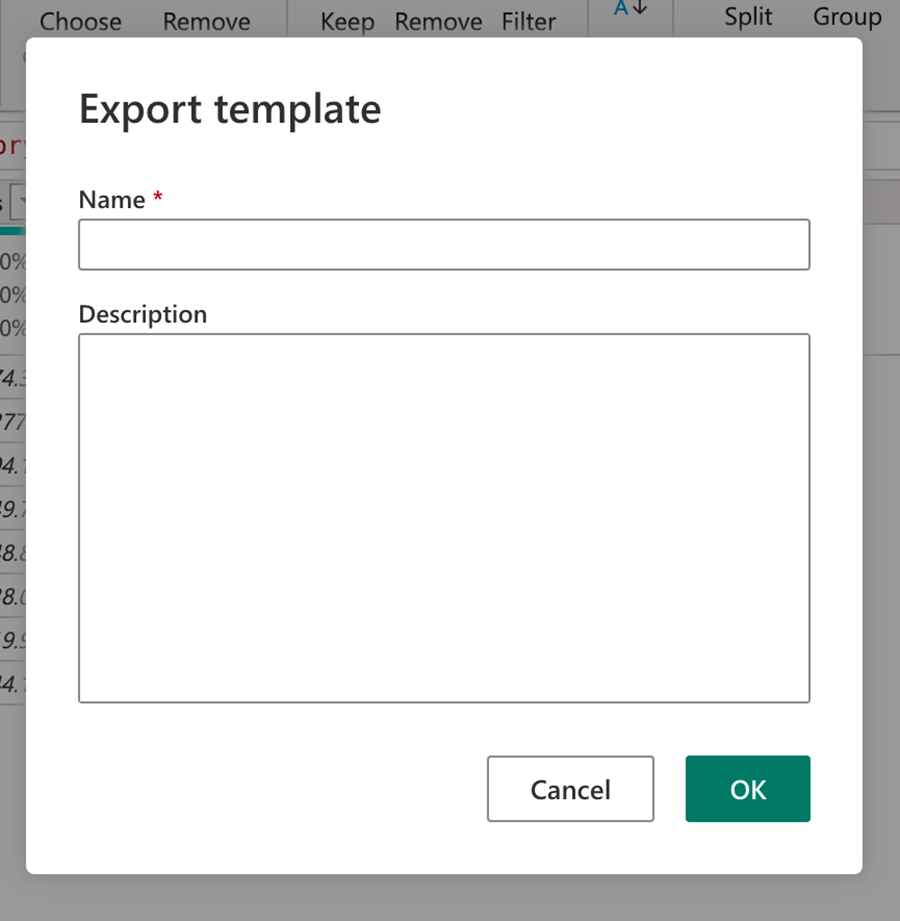
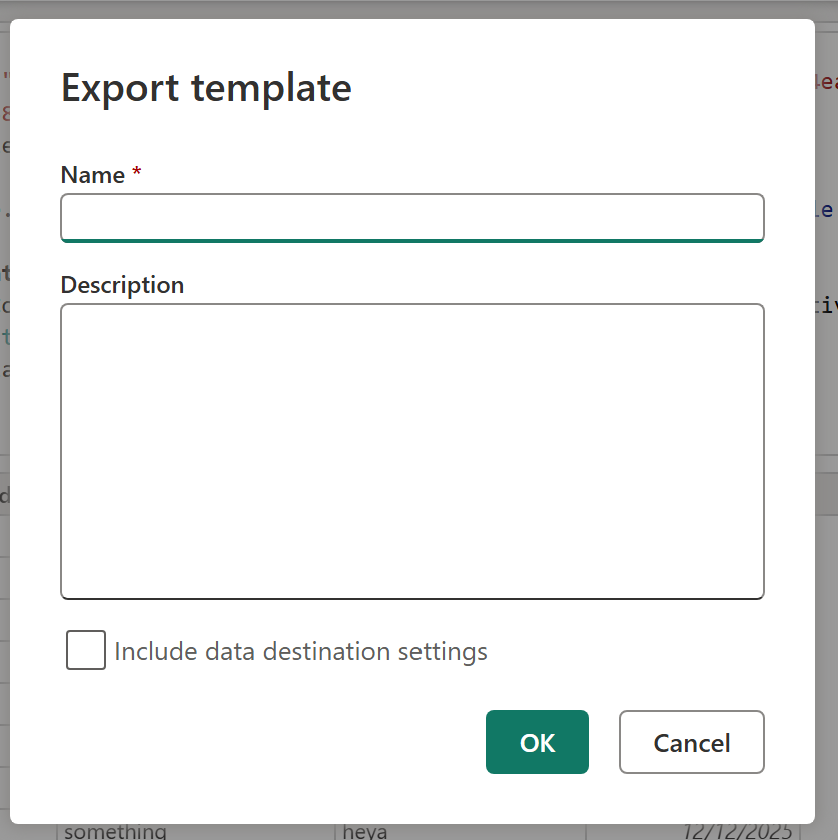
Update Power Query template article

Changed region(s): [[0.0, 0.0, 1.0, 1.0], [0.0621, 0.0929, 0.4344, 0.1548]]

diff --git a/powerquery-docs/power-query-template.md b/powerquery-docs/power-query-template.md
@@ -1,52 +1,54 @@
 ---
-title: Power Query template (preview)
+title: Power Query template
 description: Learn how to import and export a Power Query template that helps you move entire Power Query projects across environments that support the template functionality.
 author: ptyx507x
 
 ms.topic: overview
-ms.date: 6/19/2023
+ms.date: 4/13/2026
 ms.author: miescobar
 ---
 
-# Power Query template (preview)
+# Power Query template
 
-A Power Query template is a file that encompasses the Power Query script and its associated metadata for a single Power Query project. 
+A Power Query template is a file that includes the Power Query script and its related metadata for a single Power Query project.
 
-It's meant to be used as a simple means to package your entire Power Query project in a single file. You can then share the file or import it to other Power Query integrations.
+You can use it to package your entire Power Query project into a single file so you can share it or import it into other Power Query integrations.
 
 >[!NOTE]
->A Power Query project can be defined as a single instance of the Power Query editor. This instance could contain any number of parameters, queries, and specific settings, such as the locale that should be used to interpret data types.
-
+>A Power Query project is a single instance of the Power Query editor that can have any number of parameters, queries, and settings like the locale used to interpret data types.
 >[!IMPORTANT]
->Concepts that are outside of the Power Query script or its metadata are outside of the scope of what to find in a Power Query template. Some examples are dataflow related concepts such as scheduled refresh definition, refresh history, dataflow IDs, connections referenced, and other concepts that aren't stored in the Power Query script or the metadata of a Power Query project.
+>Items outside the mashup document or its metadata aren't part of a Power Query template. Examples include dataflow-related items like scheduled refresh definitions, refresh history, dataflow IDs, referenced connections, and other items that aren't stored in the mashup document or its metadata.
 
 ## Export a template
 
 >[!NOTE]
->The following guide applies to all Power Query Online hosts.
+>This guide applies to all Power Query Online hosts.
 >
->For Power Query in Excel for Windows, follow the guide in [exporting queries in Excel to a Power Query template](new-dataflow-from-template.md#exporting-queries-in-excel-to-a-power-query-template).
+>For Power Query in Excel for Windows, see [Export queries in Excel to a Power Query template](new-dataflow-from-template.md#exporting-queries-in-excel-to-a-power-query-template).
 
-You can find the **Export template** button inside of the **Home** tab of the Power Query ribbon, under the **Share** group.
+On the **Home** tab of the ribbon, go to the *Share* group and select **Export template**.
 
-:::image type="content" source="media/power-query-template/export.png" alt-text="Screenshot that shows the Export Template button located inside the Share group of the Home tab in the ribbon." lightbox="media/power-query-template/export.png":::
+:::image type="content" source="media/power-query-template/export.png" alt-text="Screenshot of the Export Template button located inside the Share group of the Home tab in the ribbon.":::
 
-When you select this button, the **Export template** dialog appears. In this dialog, you can enter the name of the template and the description that is used for the template.
+When you select this button, a dialog opens where you can enter the template name and description.
 
-:::image type="content" source="media/power-query-template/export-dialog.png" alt-text="Screenshot that shows the Export Template dialog, where you set the name and the description for the template.":::
+:::image type="content" source="media/power-query-template/export-dialog.png" alt-text="Screenshot of the Export Template dialog to set the name and the description for the template.":::
 
-This operation downloads a file with the extension.pqt, which is your Power Query template file.
+This action downloads a `.pqt` file, which is your Power Query template file.
+
+>[!NOTE]
+>Different product integrations let you export specific scripts, like destination queries and query attributes in the Fabric Dataflow Gen2 experience.
 
 ## Import a template
 
 >[!NOTE]
->This functionality is only available inside of the Dataflows Gen2 experience for Microsoft Fabric.
+>This feature is only available in the Dataflows Gen2 experience for Microsoft Fabric.
 
-The option to import from a template is only available in Power Query projects with no queries or parameters set. In the home screen of the Power Query editor, there's a link that reads **Import from Power Query template**.
+The option to import from a template is only available in Power Query projects that don't have queries or parameters set. On the Power Query editor home screen, you can select **Import from Power Query template**.
 
-:::image type="content" source="media/power-query-template/import-template.png" alt-text="Screenshot that shows how to import from a Power Query template link in the Power Query home page or canvas." lightbox="media/power-query-template/import-template.png":::
+:::image type="content" source="media/power-query-template/import-template.png" alt-text="Screenshot of how to import from a Power Query template link in the Power Query home page or canvas.":::
 
-Selecting the **Import from Power Query template** button triggers an experience to help you upload your Power Query template and immediately load the project with all its queries, parameters, and settings.
+When you select **Import from Power Query template**, you can upload your Power Query template and immediately load the project with all its queries, parameters, and settings.
 
 >[!IMPORTANT]
->Connections and/or credential definitions aren't stored inside of a Power Query template file. These items need to be set after importing the template.
+>Connections and credential definitions aren't stored in a Power Query template file. You need to set them up after you import the template.
